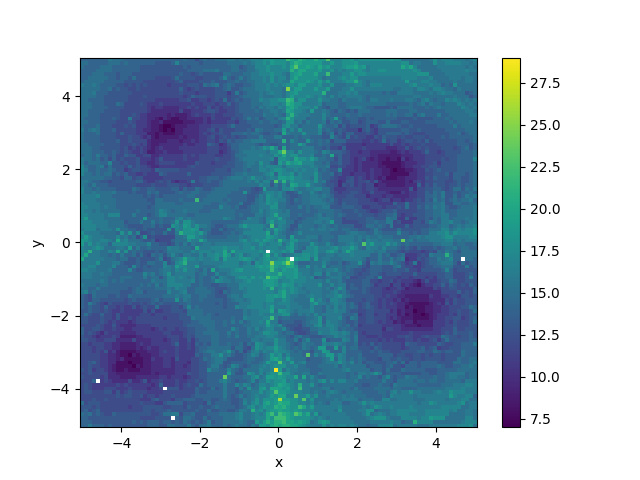
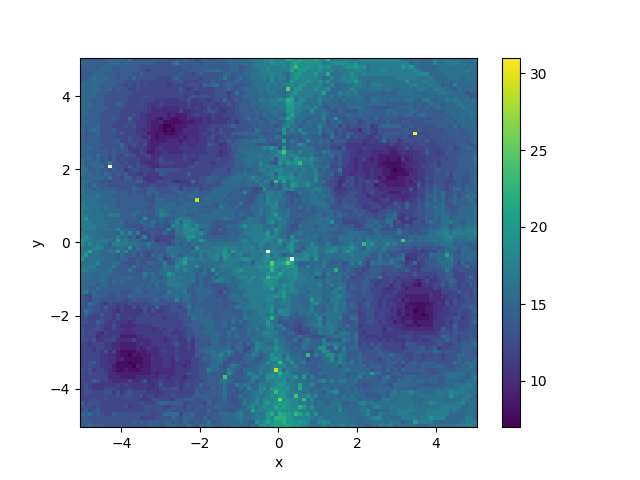
Minor edits

diff --git a/trust_region_modification.py b/trust_region_modification.py
@@ -46,19 +46,20 @@ def subproblem_solve_newton(df, B, delta, lambda1, lambda0, e_vec0):
     # print(np.linalg.cholesky(B + lambda_l * np.identity(n)))
 
     # L L^T function output though R^T R is algorithm format
-    # range 4 for himmelblau plot, range(5) gives np.linalg.LinAlgError at end
-    # 9 for SR1 himmelblau plot
-    for _ in range(9):
+    # Note increasing number of iterations here barely makes a difference in the iteration plots
+    for _ in range(5):
 
         try:
             L = np.linalg.cholesky(B + lambda_l * np.identity(n))
         except np.linalg.LinAlgError:
             pass
+            B_posdef = 0
         else:
             p = -np.linalg.inv(L.T) @ np.linalg.inv(L) @ df
+            B_posdef = 1
             
         # update safeguards
-        # update lambda_s via (3.9) in the paper if needed in future
+        # update lambda_s via (3.9) in the paper for mastery in future
         if lambda_l > -lambda1 and (1/delta - 1/np.linalg.norm(p) < 0):
             lambda_up = min(lambda_up, lambda_l)
             z = e_vec0 / np.linalg.norm(e_vec0)
@@ -67,15 +68,15 @@ def subproblem_solve_newton(df, B, delta, lambda1, lambda0, e_vec0):
             lambda_low = max(lambda_low, lambda_l)
 
         lambda_low = max(lambda_low, lambda_s)
-        try:
-            L = np.linalg.cholesky(B + lambda_l * np.identity(n))
-        except np.linalg.LinAlgError:
+
+        if B_posdef:
+            q = np.linalg.inv(L) @ p
+            lambda_l += ((np.linalg.norm(p)/np.linalg.norm(q))**2
+                         * (np.linalg.norm(p) - delta) / delta)
+        else:
             lambda_l = lambda_s
-        q = np.linalg.inv(L) @ p
 
-        lambda_l += ((np.linalg.norm(p)/np.linalg.norm(q))**2
-                     * (np.linalg.norm(p) - delta) / delta)
-
+        # safeguard
         if lambda_l <= lambda_s:
             lambda_l = max(0.001*lambda_up, np.sqrt(lambda_low*lambda_up))
         lambda_l = max(lambda_l, lambda_low)
@@ -92,9 +93,8 @@ def subproblem_solve_newton(df, B, delta, lambda1, lambda0, e_vec0):
     # print()
     # print()
 
-    L = np.linalg.cholesky(B + lambda_l * np.identity(n))
-
-    return -np.linalg.inv(L.T) @ np.linalg.inv(L) @ df
+    # lambda_l < -lambda1 possible at end
+    return -np.linalg.inv(B + lambda_l * np.identity(n)) @ df
 
 
 def subproblem_hard(df, e_val, e_vec, delta):
@@ -135,7 +135,7 @@ def subproblem_solve(df, B, delta):
 
     e_val, e_vec = np.linalg.eigh(B)
     e_vec_1 = e_vec[:, e_val == e_val[0]]
-    if np.linalg.norm(e_vec_1.T @ df) < 1e-10:
+    if np.linalg.norm(e_vec_1.T @ df) < len(B)*1e-12:
         return subproblem_hard(df, e_val, e_vec, delta)
 
     return subproblem_solve_newton(df, B, delta, e_val[0], 3*abs(e_val[0]), e_vec[0])

diff --git a/testing_trm_method.py b/testing_trm_method.py
@@ -7,6 +7,7 @@ from test_functions import rosenbrock, himmelblau, rastrigin, ackley, Polynomial
 
 """
 Need convergence plot, iterations, color plot
+Need to test subproblem ones again, now algorithm modified
 """
 
 def test_trm(methods, functions, delta0, delta_max, eta, iter_time, tolerance):
@@ -139,7 +140,7 @@ def iterates(submethod, func, x0, delta0, delta_max, eta, iter_time, tolerance):
 
     return res
 
-# copied from testing.py
+# copied. adapted from testing.py
 
 def convergence_plot(xlis):
     # treat final point as equilibrium
@@ -295,17 +296,20 @@ def number_of_iterations_plot_SR1(submethod, func, width, density=100):
             try:
                 Z[i][j] = len(SR1_algo(submethod, func.func, func.derivative, np.array([X[i][j],Y[i][j]]), 0.1, 0.05, 50))
                 #print(i, j, Z[i][j])
-            except:
+            except ConvergenceError:
                 Z[i][j] = np.inf
     
     plt.pcolormesh(X, Y, Z)
     plt.colorbar()
     plt.xlabel("x")
     plt.ylabel("y")
-    # plt.savefig("ackley_trm_iter_dogleg_SR1.png")
+    plt.savefig("ackley_trm_iter_subproblem_SR1.png")
     plt.show()
 
-# number_of_iterations_plot_SR1(dogleg, ackley, 5, 100)
+
+# for Rosenbrock, some points were really close, the threshold is just not reached yet, so ConvergenceError
+# This can take few minutes to finish, esp width=5, density=100, in battery saver mode
+number_of_iterations_plot_SR1(subproblem_solve, ackley, 5, 100)
 
 # result = test_trm([trm_cauchy, trm_dogleg, trm_subspace, trm_subproblem],
 #                   [rastrigin, himmelblau, rosenbrock],
